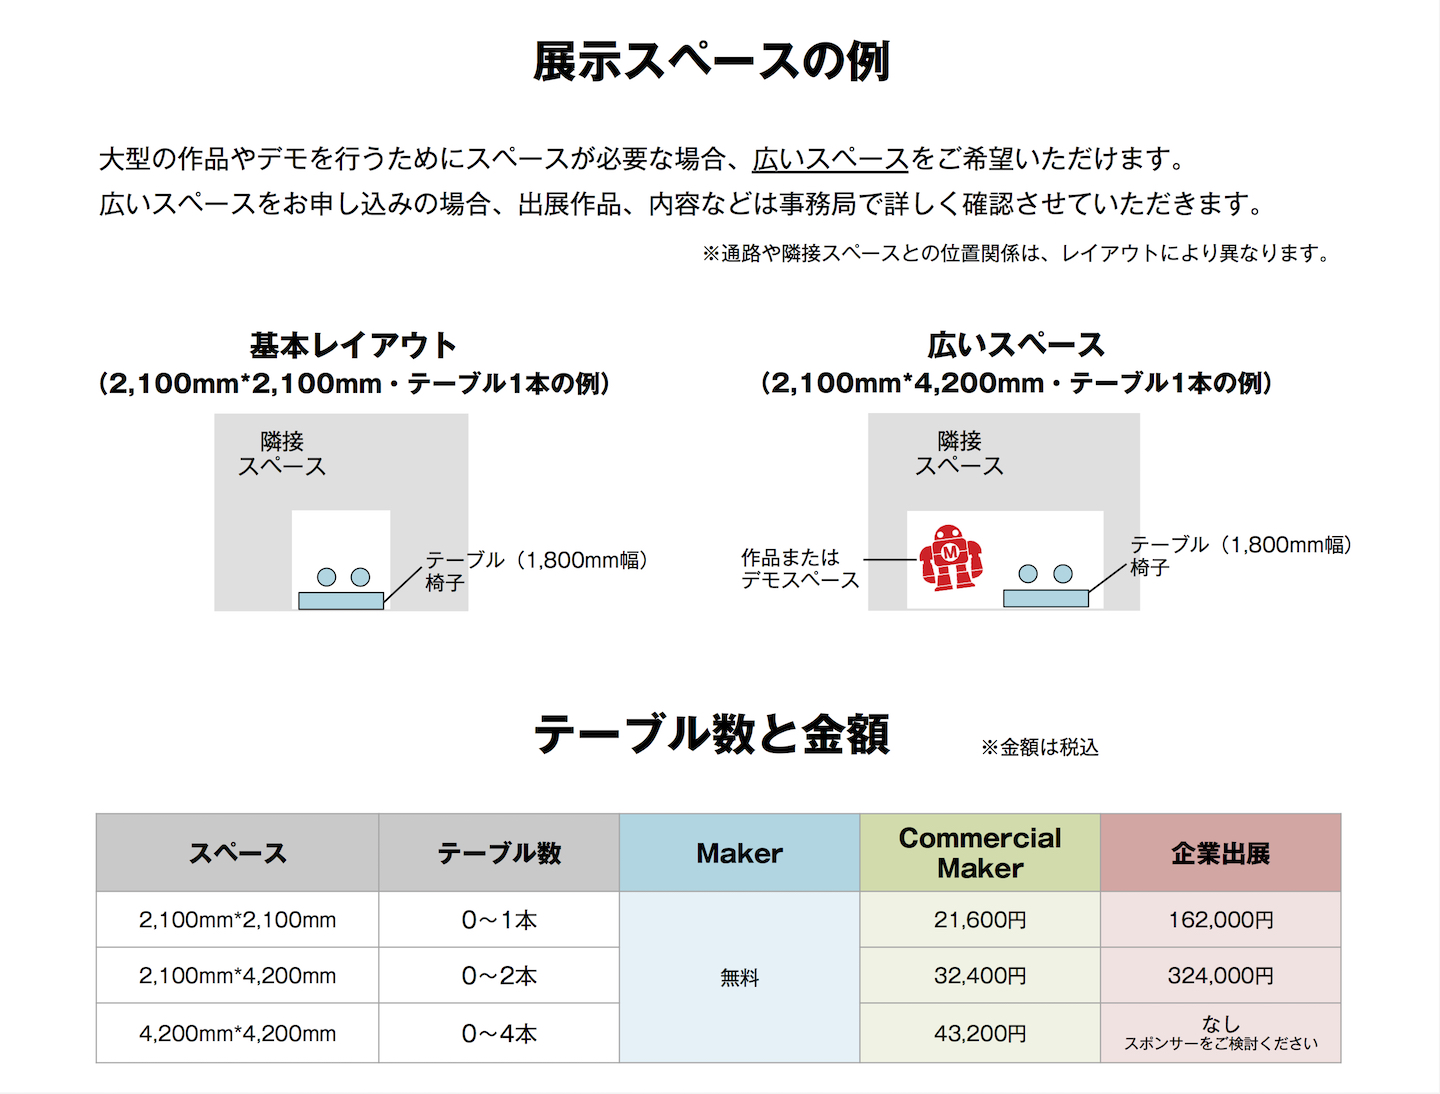
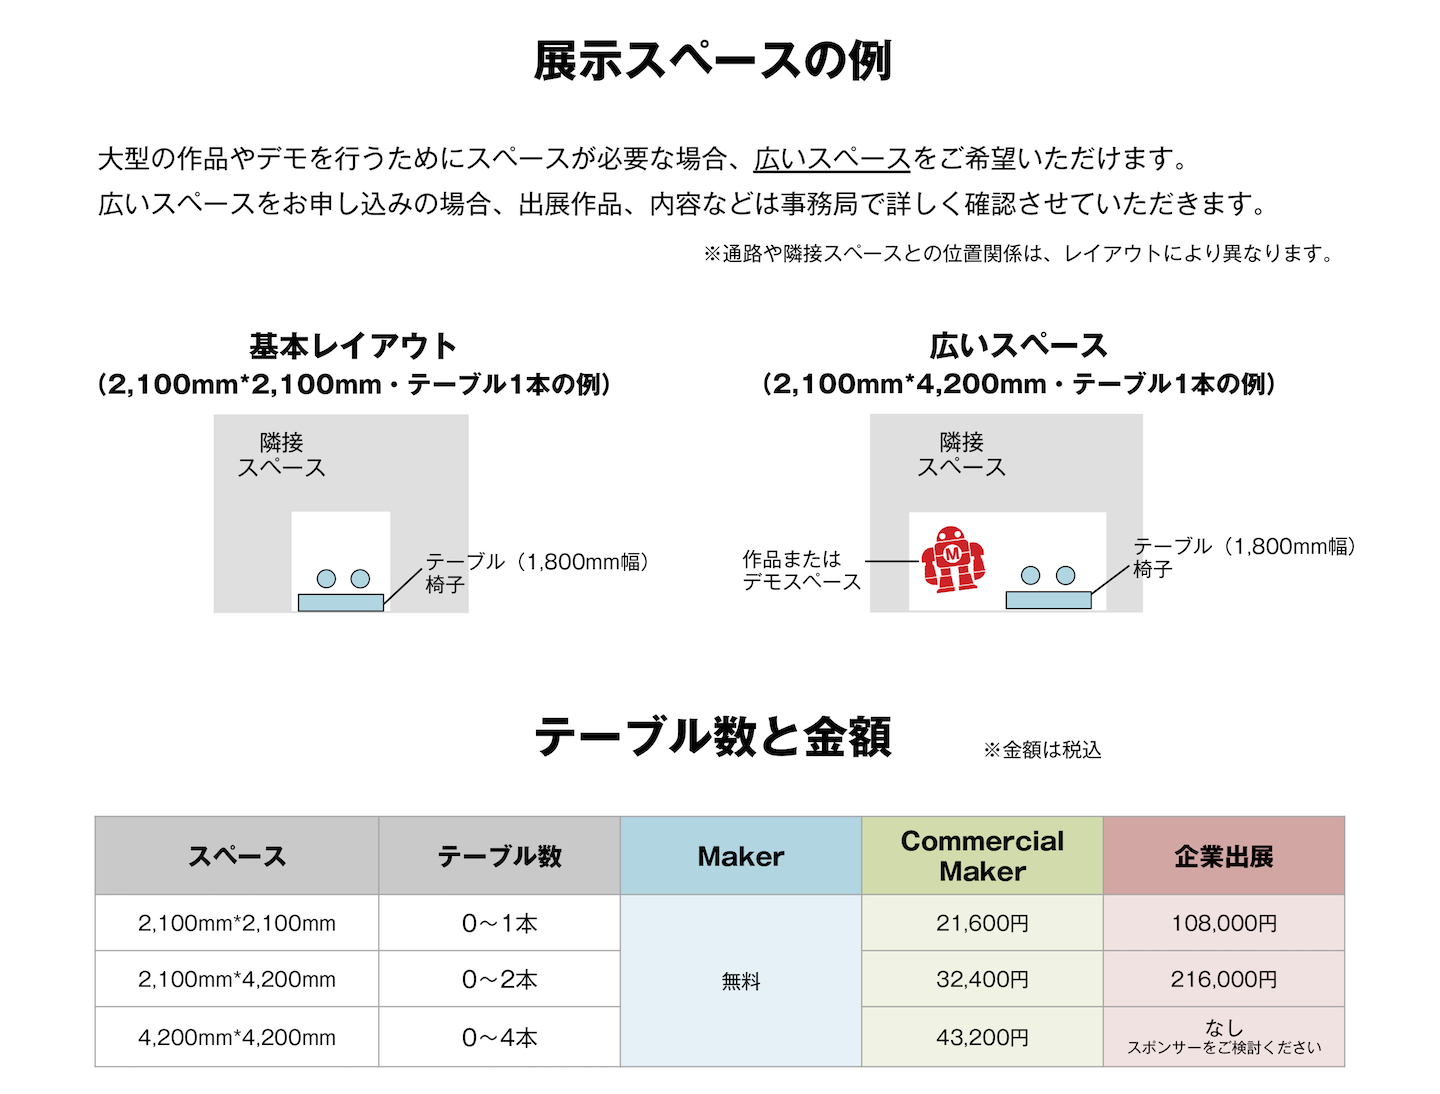
:bug: Fix a charge of commercial maker

diff --git a/templates/registration.html b/templates/registration.html
@@ -736,7 +736,7 @@
                 <dl>
                   <dt>4-04. ワークショップ（50分間、110分間から選択）</dt>
                   <dd>「希望する」を選択した場合は、以下4-05から4-11に回答してください。Commercial Maker、企業出展の場合、ワークショップ専用スペースを使ったワークショップの実施には別途 スペースの利用費が必要です（開催時間に関わらず1回につき、Commercial
-                    Maker：21,600円［税込］、企業出展：162,000円［税込］）。出展決定後に実施の可否を連絡します。
+                    Maker：21,600円［税込］、企業出展：108,000円［税込］）。出展決定後に実施の可否を連絡します。
                   </dd>
                 </dl>
                 <p>
